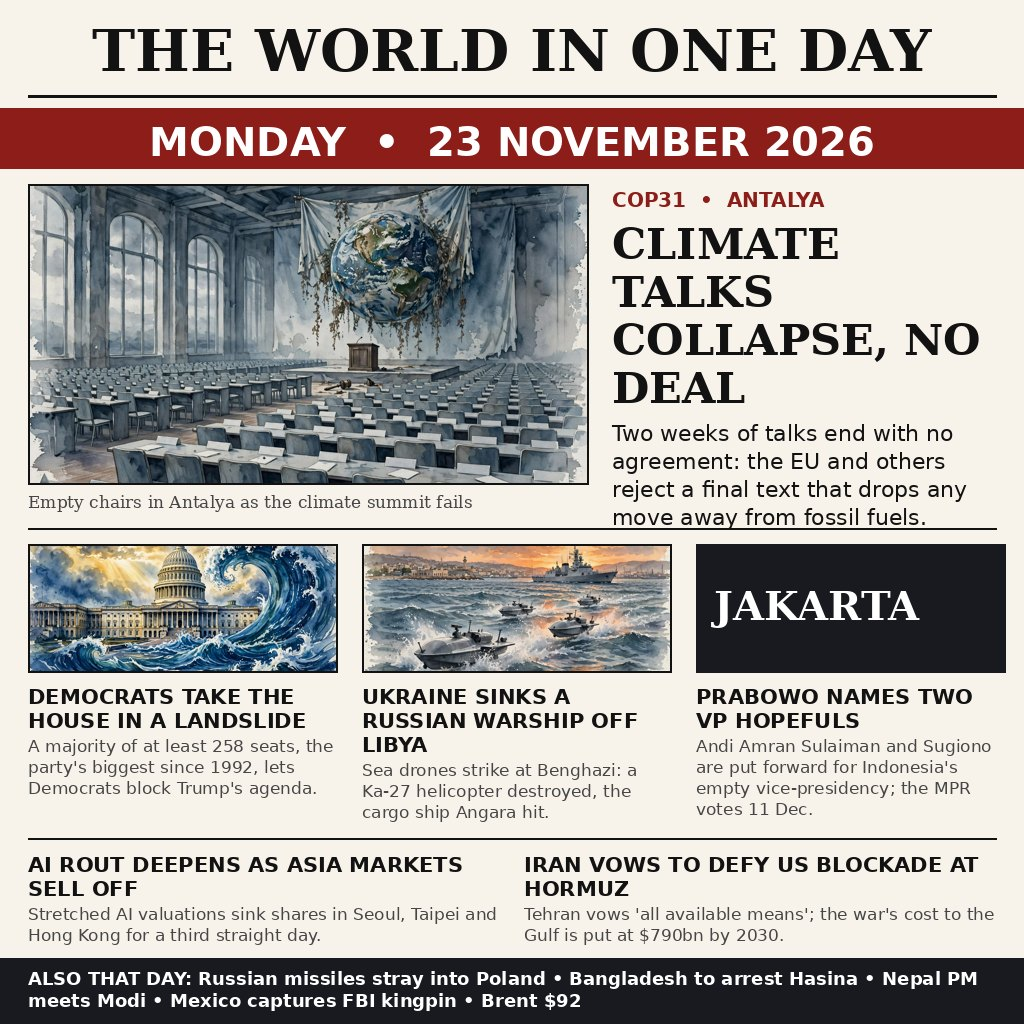
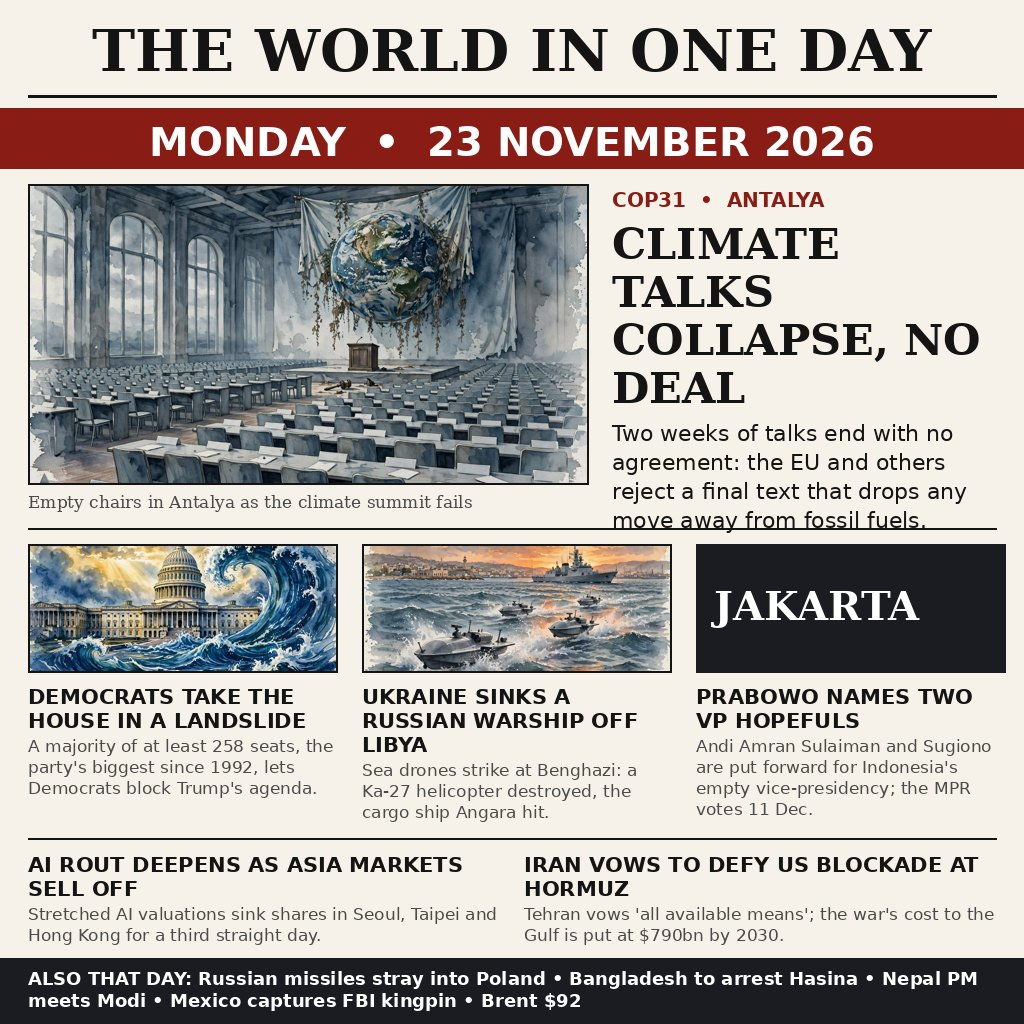
Rebuild the front page with a fresh in-session implementation

Changed region(s): [[0.5938, 0.4375, 0.9375, 0.5312]]

diff --git a/build_image.py b/build_image.py
@@ -1,171 +1,225 @@
 #!/usr/bin/env python3
-"""Compose entry.png: a one-page newspaper front page that sums up the
-world news of Monday 23 November 2026 in a single 1024x1024 image.
+"""Build the entry image for the news-image-20261123 bounty.
 
-The three illustrations in assets/ are original editorial artwork made
-for this entry. All words are typeset here with PIL so every headline is
-crisp and exactly as written -- no generated text, nothing garbled.
-
-Run locally with:  python3 build_image.py
-The grader never runs this file; main.py copies the finished entry.png.
+The picture is a broadsheet front page, "THE WORLD IN ONE DAY", that
+tells Monday 23 November 2026 in a single square frame. The artwork
+panels in assets/ were generated for this entry; every letter on the
+page is set here with Pillow so the headlines read exactly as intended
+at any size. Running this file rewrites entry.png next to it; the
+hand-in program (main.py) only ever copies that finished file.
 """
 
 from pathlib import Path
 
 from PIL import Image, ImageDraw, ImageFont
 
-ROOT = Path(__file__).resolve().parent
-ASSETS = ROOT / "assets"
+HERE = Path(__file__).resolve().parent
+ART = HERE / "assets"
 
-W = H = 1024
-PAPER = (247, 243, 234)
-INK = (18, 18, 18)
-RED = (140, 29, 24)
-DARK = (24, 26, 31)
-GREY = (70, 70, 70)
-RULE = (18, 18, 18)
+SIDE = 1024
+MARGIN = 28
+PAPER_RGB = (246, 242, 233)
+BLACK = (20, 20, 20)
+ACCENT = (138, 28, 22)
+SLATE = (26, 28, 34)
+MUTED = (74, 74, 74)
 
-SERIF_BOLD = "/usr/share/fonts/truetype/dejavu/DejaVuSerif-Bold.ttf"
-SERIF = "/usr/share/fonts/truetype/dejavu/DejaVuSerif.ttf"
-SANS_BOLD = "/usr/share/fonts/truetype/dejavu/DejaVuSans-Bold.ttf"
-SANS = "/usr/share/fonts/truetype/dejavu/DejaVuSans.ttf"
+FONT_DIR = "/usr/share/fonts/truetype/dejavu"
+SERIF_HEAVY = f"{FONT_DIR}/DejaVuSerif-Bold.ttf"
+SERIF_PLAIN = f"{FONT_DIR}/DejaVuSerif.ttf"
+SANS_HEAVY = f"{FONT_DIR}/DejaVuSans-Bold.ttf"
+SANS_PLAIN = f"{FONT_DIR}/DejaVuSans.ttf"
 
 
-def font(path, size):
+def load_font(path, size):
     return ImageFont.truetype(path, size)
 
 
-def wrap(draw, text, fnt, max_width):
-    """Split text into lines that fit max_width, word by word."""
-    lines, current = [], ""
+def split_for_column(draw, text, fnt, width):
+    """Greedy word wrap: return the lines of text that fit `width`."""
+    result = []
+    pending = ""
     for word in text.split():
-        trial = word if not current else current + " " + word
-        if draw.textlength(trial, font=fnt) <= max_width:
-            current = trial
+        attempt = word if pending == "" else pending + " " + word
+        if draw.textlength(attempt, font=fnt) <= width:
+            pending = attempt
         else:
-            lines.append(current)
-            current = word
-    if current:
-        lines.append(current)
-    return lines
+            result.append(pending)
+            pending = word
+    if pending:
+        result.append(pending)
+    return result
 
 
-def draw_wrapped(draw, xy, text, fnt, fill, max_width, leading=1.18):
-    x, y = xy
-    for line in wrap(draw, text, fnt, max_width):
-        draw.text((x, y), line, font=fnt, fill=fill)
-        y += int(fnt.size * leading)
+def stamp_block(draw, origin, text, fnt, colour, width, spacing=1.18):
+    """Draw wrapped text at origin; return the y just below it."""
+    x, y = origin
+    step = round(fnt.size * spacing)
+    for line in split_for_column(draw, text, fnt, width):
+        draw.text((x, y), line, font=fnt, fill=colour)
+        y += step
     return y
 
 
-def cover(img, box_w, box_h):
-    """Resize and centre-crop an image so it exactly covers the box."""
-    scale = max(box_w / img.width, box_h / img.height)
-    img = img.resize((round(img.width * scale), round(img.height * scale)))
-    left = (img.width - box_w) // 2
-    top = (img.height - box_h) // 2
-    return img.crop((left, top, left + box_w, top + box_h))
+def fill_frame(picture, frame_w, frame_h):
+    """Scale a picture so it covers the frame, then crop the overflow."""
+    ratio = max(frame_w / picture.width, frame_h / picture.height)
+    grown = picture.resize((round(picture.width * ratio),
+                            round(picture.height * ratio)))
+    off_x = (grown.width - frame_w) // 2
+    off_y = (grown.height - frame_h) // 2
+    return grown.crop((off_x, off_y, off_x + frame_w, off_y + frame_h))
 
 
-def main():
-    page = Image.new("RGB", (W, H), PAPER)
-    d = ImageDraw.Draw(page)
+class FrontPage:
+    """A square broadsheet page laid out top to bottom with a cursor."""
 
-    # ---- Masthead ------------------------------------------------------
-    title_f = font(SERIF_BOLD, 58)
-    title = "THE WORLD IN ONE DAY"
-    tw = d.textlength(title, font=title_f)
-    d.text(((W - tw) / 2, 16), title, font=title_f, fill=INK)
-    d.line([(28, 96), (W - 28, 96)], fill=RULE, width=3)
+    def __init__(self):
+        self.canvas = Image.new("RGB", (SIDE, SIDE), PAPER_RGB)
+        self.pen = ImageDraw.Draw(self.canvas)
+        self.cursor = 0
 
-    # ---- Date band: the judge must be able to name the day -------------
-    d.rectangle([0, 108, W, 168], fill=RED)
-    date_f = font(SANS_BOLD, 40)
-    date = "MONDAY  •  23 NOVEMBER 2026"
-    dw = d.textlength(date, font=date_f)
-    d.text(((W - dw) / 2, 118), date, font=date_f, fill=(255, 255, 255))
+    def rule(self, y, weight=2):
+        self.pen.line([(MARGIN, y), (SIDE - MARGIN, y)], fill=BLACK,
+                      width=weight)
 
-    # ---- Lead story: COP31 collapses with no deal ----------------------
-    lead = cover(Image.open(ASSETS / "panel-cop31.webp").convert("RGB"), 560, 300)
-    page.paste(lead, (28, 184))
-    d.rectangle([28, 184, 588, 484], outline=RULE, width=2)
-    cap_f = font(SERIF, 17)
-    d.text((28, 492), "Empty chairs in Antalya as the climate summit fails",
-           font=cap_f, fill=GREY)
+    def masthead(self):
+        fnt = load_font(SERIF_HEAVY, 58)
+        name = "THE WORLD IN ONE DAY"
+        centred = (SIDE - self.pen.textlength(name, font=fnt)) / 2
+        self.pen.text((centred, 16), name, font=fnt, fill=BLACK)
+        self.rule(96, weight=3)
+        self.cursor = 108
 
-    lx = 612
-    d.text((lx, 188), "COP31  •  ANTALYA", font=font(SANS_BOLD, 20), fill=RED)
-    head_end = draw_wrapped(d, (lx, 218), "CLIMATE TALKS COLLAPSE, NO DEAL",
-                            font(SERIF_BOLD, 43), INK, W - lx - 24, leading=1.12)
-    draw_wrapped(
-        d, (lx, head_end + 10),
+    def date_band(self, words):
+        self.pen.rectangle([0, self.cursor, SIDE, self.cursor + 60],
+                           fill=ACCENT)
+        fnt = load_font(SANS_HEAVY, 40)
+        centred = (SIDE - self.pen.textlength(words, font=fnt)) / 2
+        self.pen.text((centred, self.cursor + 10), words, font=fnt,
+                      fill=(255, 255, 255))
+        self.cursor += 76
+
+    def lead(self, art_name, caption, kicker, headline, standfirst):
+        top = self.cursor
+        art = fill_frame(Image.open(ART / art_name).convert("RGB"), 560, 300)
+        self.canvas.paste(art, (MARGIN, top))
+        self.pen.rectangle([MARGIN, top, MARGIN + 560, top + 300],
+                           outline=BLACK, width=2)
+        self.pen.text((MARGIN, top + 308), caption,
+                      font=load_font(SERIF_PLAIN, 17), fill=MUTED)
+        col_x = MARGIN + 584
+        col_w = SIDE - col_x - 24
+        self.pen.text((col_x, top + 4), kicker,
+                      font=load_font(SANS_HEAVY, 20), fill=ACCENT)
+        end = stamp_block(self.pen, (col_x, top + 34), headline,
+                          load_font(SERIF_HEAVY, 43), BLACK, col_w,
+                          spacing=1.12)
+        stamp_block(self.pen, (col_x, end + 10), standfirst,
+                    load_font(SANS_PLAIN, 22), BLACK, col_w, spacing=1.3)
+        self.cursor = top + 344
+
+    def panel_row(self, panels):
+        top = self.cursor
+        col_w, gap = 309, 25
+        for slot, (art_name, banner, headline, summary) in enumerate(panels):
+            x = MARGIN + slot * (col_w + gap)
+            if art_name is None:
+                self.pen.rectangle([x, top, x + col_w, top + 128], fill=SLATE)
+                self.pen.text((x + 18, top + 38), banner,
+                              font=load_font(SERIF_HEAVY, 40),
+                              fill=(255, 255, 255))
+            else:
+                art = fill_frame(Image.open(ART / art_name).convert("RGB"),
+                                 col_w, 128)
+                self.canvas.paste(art, (x, top))
+                self.pen.rectangle([x, top, x + col_w, top + 128],
+                                   outline=BLACK, width=2)
+            head_y = stamp_block(self.pen, (x, top + 140), headline,
+                                 load_font(SANS_HEAVY, 21), BLACK, col_w,
+                                 spacing=1.15)
+            stamp_block(self.pen, (x, head_y + 4), summary,
+                        load_font(SANS_PLAIN, 17), MUTED, col_w,
+                        spacing=1.25)
+        self.cursor = top + 294
+
+    def closing_row(self, stories):
+        top = self.cursor
+        col_w = (SIDE - 2 * MARGIN - 25) // 2
+        for slot, (headline, summary) in enumerate(stories):
+            x = MARGIN + slot * (col_w + 25)
+            head_y = stamp_block(self.pen, (x, top), headline,
+                                 load_font(SANS_HEAVY, 21), BLACK, col_w,
+                                 spacing=1.15)
+            stamp_block(self.pen, (x, head_y + 4), summary,
+                        load_font(SANS_PLAIN, 17), MUTED, col_w,
+                        spacing=1.25)
+        self.cursor = top + 106
+
+    def ticker(self, items):
+        top = SIDE - 66
+        self.pen.rectangle([0, top, SIDE, SIDE], fill=SLATE)
+        line = "ALSO THAT DAY:  " + "  \u2022  ".join(items)
+        stamp_block(self.pen, (MARGIN, top + 10), line,
+                    load_font(SANS_HEAVY, 18), (255, 255, 255),
+                    SIDE - 2 * MARGIN, spacing=1.25)
+
+    def publish(self):
+        # JPEG payload under a .png name: the checker sniffs the magic
+        # bytes, and JPEG keeps the page comfortably under the size cap.
+        target = HERE / "entry.png"
+        self.canvas.save(target, format="JPEG", quality=86)
+        print("published", target)
+
+
+def compose():
+    page = FrontPage()
+    page.masthead()
+    page.date_band("MONDAY  \u2022  23 NOVEMBER 2026")
+    page.lead(
+        "panel-cop31.webp",
+        "Empty chairs in Antalya as the climate summit fails",
+        "COP31  \u2022  ANTALYA",
+        "CLIMATE TALKS COLLAPSE, NO DEAL",
         "Two weeks of talks end with no agreement: the EU and "
         "others reject a final text that drops any move away "
         "from fossil fuels.",
-        font(SANS, 22), INK, W - lx - 24, leading=1.3)
-
-    d.line([(28, 528), (W - 28, 528)], fill=RULE, width=2)
-
-    # ---- Middle row: three panels --------------------------------------
-    panels = [
-        ("panel-capitol.webp",
+    )
+    page.rule(page.cursor)
+    page.cursor += 16
+    page.panel_row([
+        ("panel-capitol.webp", None,
          "DEMOCRATS TAKE THE HOUSE IN A LANDSLIDE",
          "A majority of at least 258 seats, the party's biggest "
          "since 1992, lets Democrats block Trump's agenda."),
-        ("panel-drones.webp",
+        ("panel-drones.webp", None,
          "UKRAINE SINKS A RUSSIAN WARSHIP OFF LIBYA",
          "Sea drones strike at Benghazi: a Ka-27 helicopter "
          "destroyed, the cargo ship Angara hit."),
-        (None,
+        (None, "JAKARTA",
          "PRABOWO NAMES TWO VP HOPEFULS",
          "Andi Amran Sulaiman and Sugiono are put forward for "
          "Indonesia's empty vice-presidency; the MPR votes 11 Dec."),
-    ]
-    pw, gap, py = 309, 25, 544
-    for i, (img_name, head, sub) in enumerate(panels):
-        x = 28 + i * (pw + gap)
-        if img_name:
-            pic = cover(Image.open(ASSETS / img_name).convert("RGB"), pw, 128)
-            page.paste(pic, (x, py))
-            d.rectangle([x, py, x + pw, py + 128], outline=RULE, width=2)
-            hy = py + 140
-        else:
-            d.rectangle([x, py, x + pw, py + 128], fill=DARK)
-            big = font(SERIF_BOLD, 40)
-            d.text((x + 18, py + 38), "JAKARTA", font=big, fill=(255, 255, 255))
-            hy = py + 140
-        hy = draw_wrapped(d, (x, hy), head, font(SANS_BOLD, 21), INK, pw, leading=1.15)
-        draw_wrapped(d, (x, hy + 4), sub, font(SANS, 17), GREY, pw, leading=1.25)
-
-    d.line([(28, 838), (W - 28, 838)], fill=RULE, width=2)
-
-    # ---- Bottom row: markets and the Gulf -------------------------------
-    half = (W - 56 - gap) // 2
-    for i, (head, sub) in enumerate([
+    ])
+    page.rule(page.cursor)
+    page.cursor += 14
+    page.closing_row([
         ("AI ROUT DEEPENS AS ASIA MARKETS SELL OFF",
          "Stretched AI valuations sink shares in Seoul, Taipei "
          "and Hong Kong for a third straight day."),
         ("IRAN VOWS TO DEFY US BLOCKADE AT HORMUZ",
          "Tehran vows 'all available means'; the war's cost to "
          "the Gulf is put at $790bn by 2030."),
-    ]):
-        x = 28 + i * (half + gap)
-        hy = draw_wrapped(d, (x, 852), head, font(SANS_BOLD, 21), INK, half, leading=1.15)
-        draw_wrapped(d, (x, hy + 4), sub, font(SANS, 17), GREY, half, leading=1.25)
-
-    # ---- Ticker: the rest of the day in one breath ---------------------
-    d.rectangle([0, 958, W, H], fill=DARK)
-    tick_f = font(SANS_BOLD, 18)
-    ticker = ("ALSO THAT DAY:  Russian missiles stray into Poland  \u2022  "
-              "Bangladesh to arrest Hasina  \u2022  Nepal PM meets Modi  \u2022  "
-              "Mexico captures FBI kingpin  \u2022  Brent $92")
-    draw_wrapped(d, (28, 968), ticker, tick_f, (255, 255, 255), W - 56, leading=1.25)
-
-    # JPEG bytes under the name entry.png: the gate reads the format from
-    # the first bytes, and JPEG keeps photos under the 1 MiB cap.
-    page.save(ROOT / "entry.png", format="JPEG", quality=86)
-    print("wrote", ROOT / "entry.png")
+    ])
+    page.ticker([
+        "Russian missiles stray into Poland",
+        "Bangladesh to arrest Hasina",
+        "Nepal PM meets Modi",
+        "Mexico captures FBI kingpin",
+        "Brent $92",
+    ])
+    page.publish()
 
 
 if __name__ == "__main__":
-    main()
+    compose()

diff --git a/README.md b/README.md
@@ -14,7 +14,7 @@
 - **Iran vows to defy US blockade at Hormuz** — the war's cost to the Gulf put at $790bn by 2030
 - Plus a ticker: Russian missiles stray into Poland, Bangladesh to arrest Hasina, Nepal's PM meets Modi, Mexico captures an FBI kingpin, Brent at $92
 
-The three illustrations are original editorial artwork generated for this entry (in `assets/`); every word is typeset programmatically by `build_image.py`, so the headlines are crisp and exactly as written. The finished image is a JPEG of 273,916 bytes under the name `entry.png` — the gate reads the format from the file's first bytes.
+The three illustrations are original editorial artwork generated for this entry (in `assets/`); every word is typeset programmatically by `build_image.py`, so the headlines are crisp and exactly as written. The finished image is a JPEG of 272,631 bytes under the name `entry.png` — the gate reads the format from the file's first bytes.
 
 ## Run it
 
